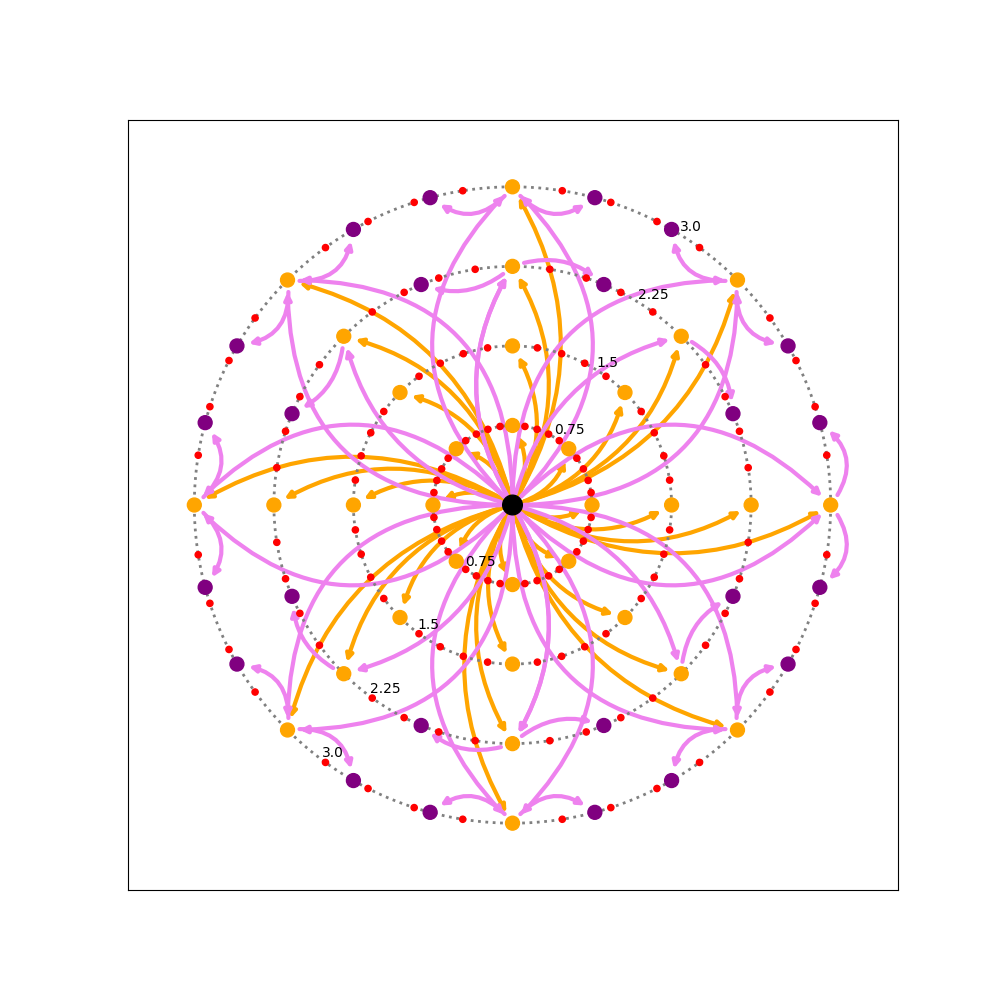
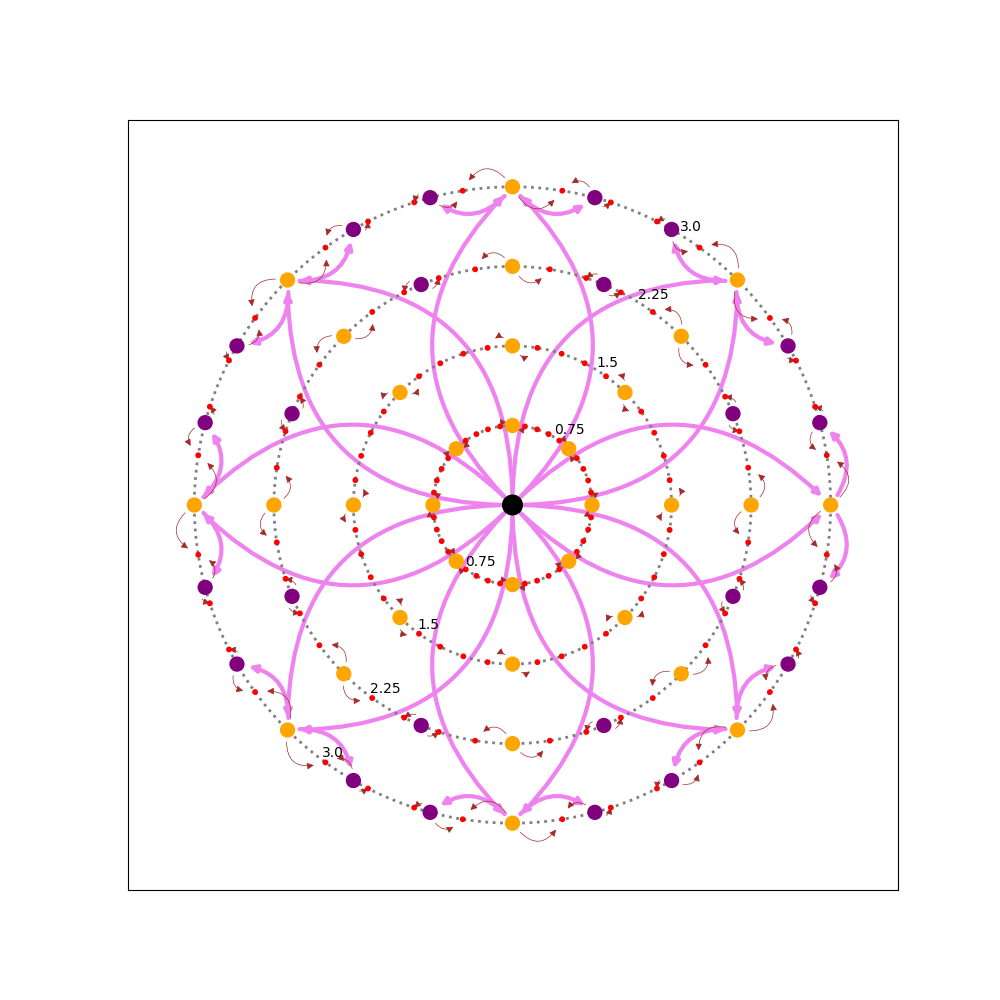
eh

diff --git a/simple_fttn.py b/simple_fttn.py
@@ -188,7 +188,6 @@ class Circle:
         selected = next(dist_iter)
         s.G.add_edge(ir_node, selected, length=s.arcdist(selected, ir_node), type='copper_1')
 
-
   def plot_dotted_circle(s: Self, radius, colour='blue'):
     theta = np.linspace(0, 2 * np.pi, 300)
     x = s.origin[0] + radius * np.cos(theta)
@@ -211,8 +210,7 @@ class Circle:
     edge_type: str,
     colour: str,
     connection_style: str,
-    should_label=False,
-    label_pos=0.5
+    width: float=3,
   ):
     edges = [(u, v) for u, v, d in s.G.edges(data=True) if d.get('type') == edge_type]
     nx.draw_networkx_edges(
@@ -221,7 +219,7 @@ class Circle:
       edgelist=edges,edge_color=colour,
       connectionstyle=connection_style,
       arrows=True,
-      width=3
+      width=width
     )
     # if should_label:
       # labels = {(u, v): round(d['length'], 2) for u, v, d in s.G.edges(data=True) if 'length' in d and d.get('type') == edge_type}
@@ -248,13 +246,14 @@ class Circle:
     for n in c.G.nodes:
       if n == 'Exchange': node_sizes.append(200)
       elif n.startswith('I_R'): node_sizes.append(100)
-      else: node_sizes.append(20)
+      else: node_sizes.append(10)
 
     nx.draw_networkx_nodes(c.G, c.pos, node_size=node_sizes, node_color=node_colours)
-    s.plot_edges('fiber_1', 'orange', 'arc3,rad=0.3', True, 0.1)
-    s.plot_edges('fiber_2', 'violet', 'arc3,rad=-0.3', True, 0.1)
-    c.plot_edges('fiber_3', 'violet', 'arc3,rad=0.5', True, 0.1)
-    c.plot_edges('fiber_4', 'violet', 'arc3,rad=-0.5', True, 0.1)
+    # s.plot_edges('fiber_1', 'orange', 'arc3,rad=0.3')
+    # s.plot_edges('fiber_2', 'violet', 'arc3,rad=-0.3')
+    c.plot_edges('fiber_3', 'violet', 'arc3,rad=0.5')
+    c.plot_edges('fiber_4', 'violet', 'arc3,rad=-0.5')
+    c.plot_edges('copper_1', 'brown', 'arc3,rad=0.8', width=0.5)
     
     plt.savefig('simple_fttn.png')
     plt.show()
